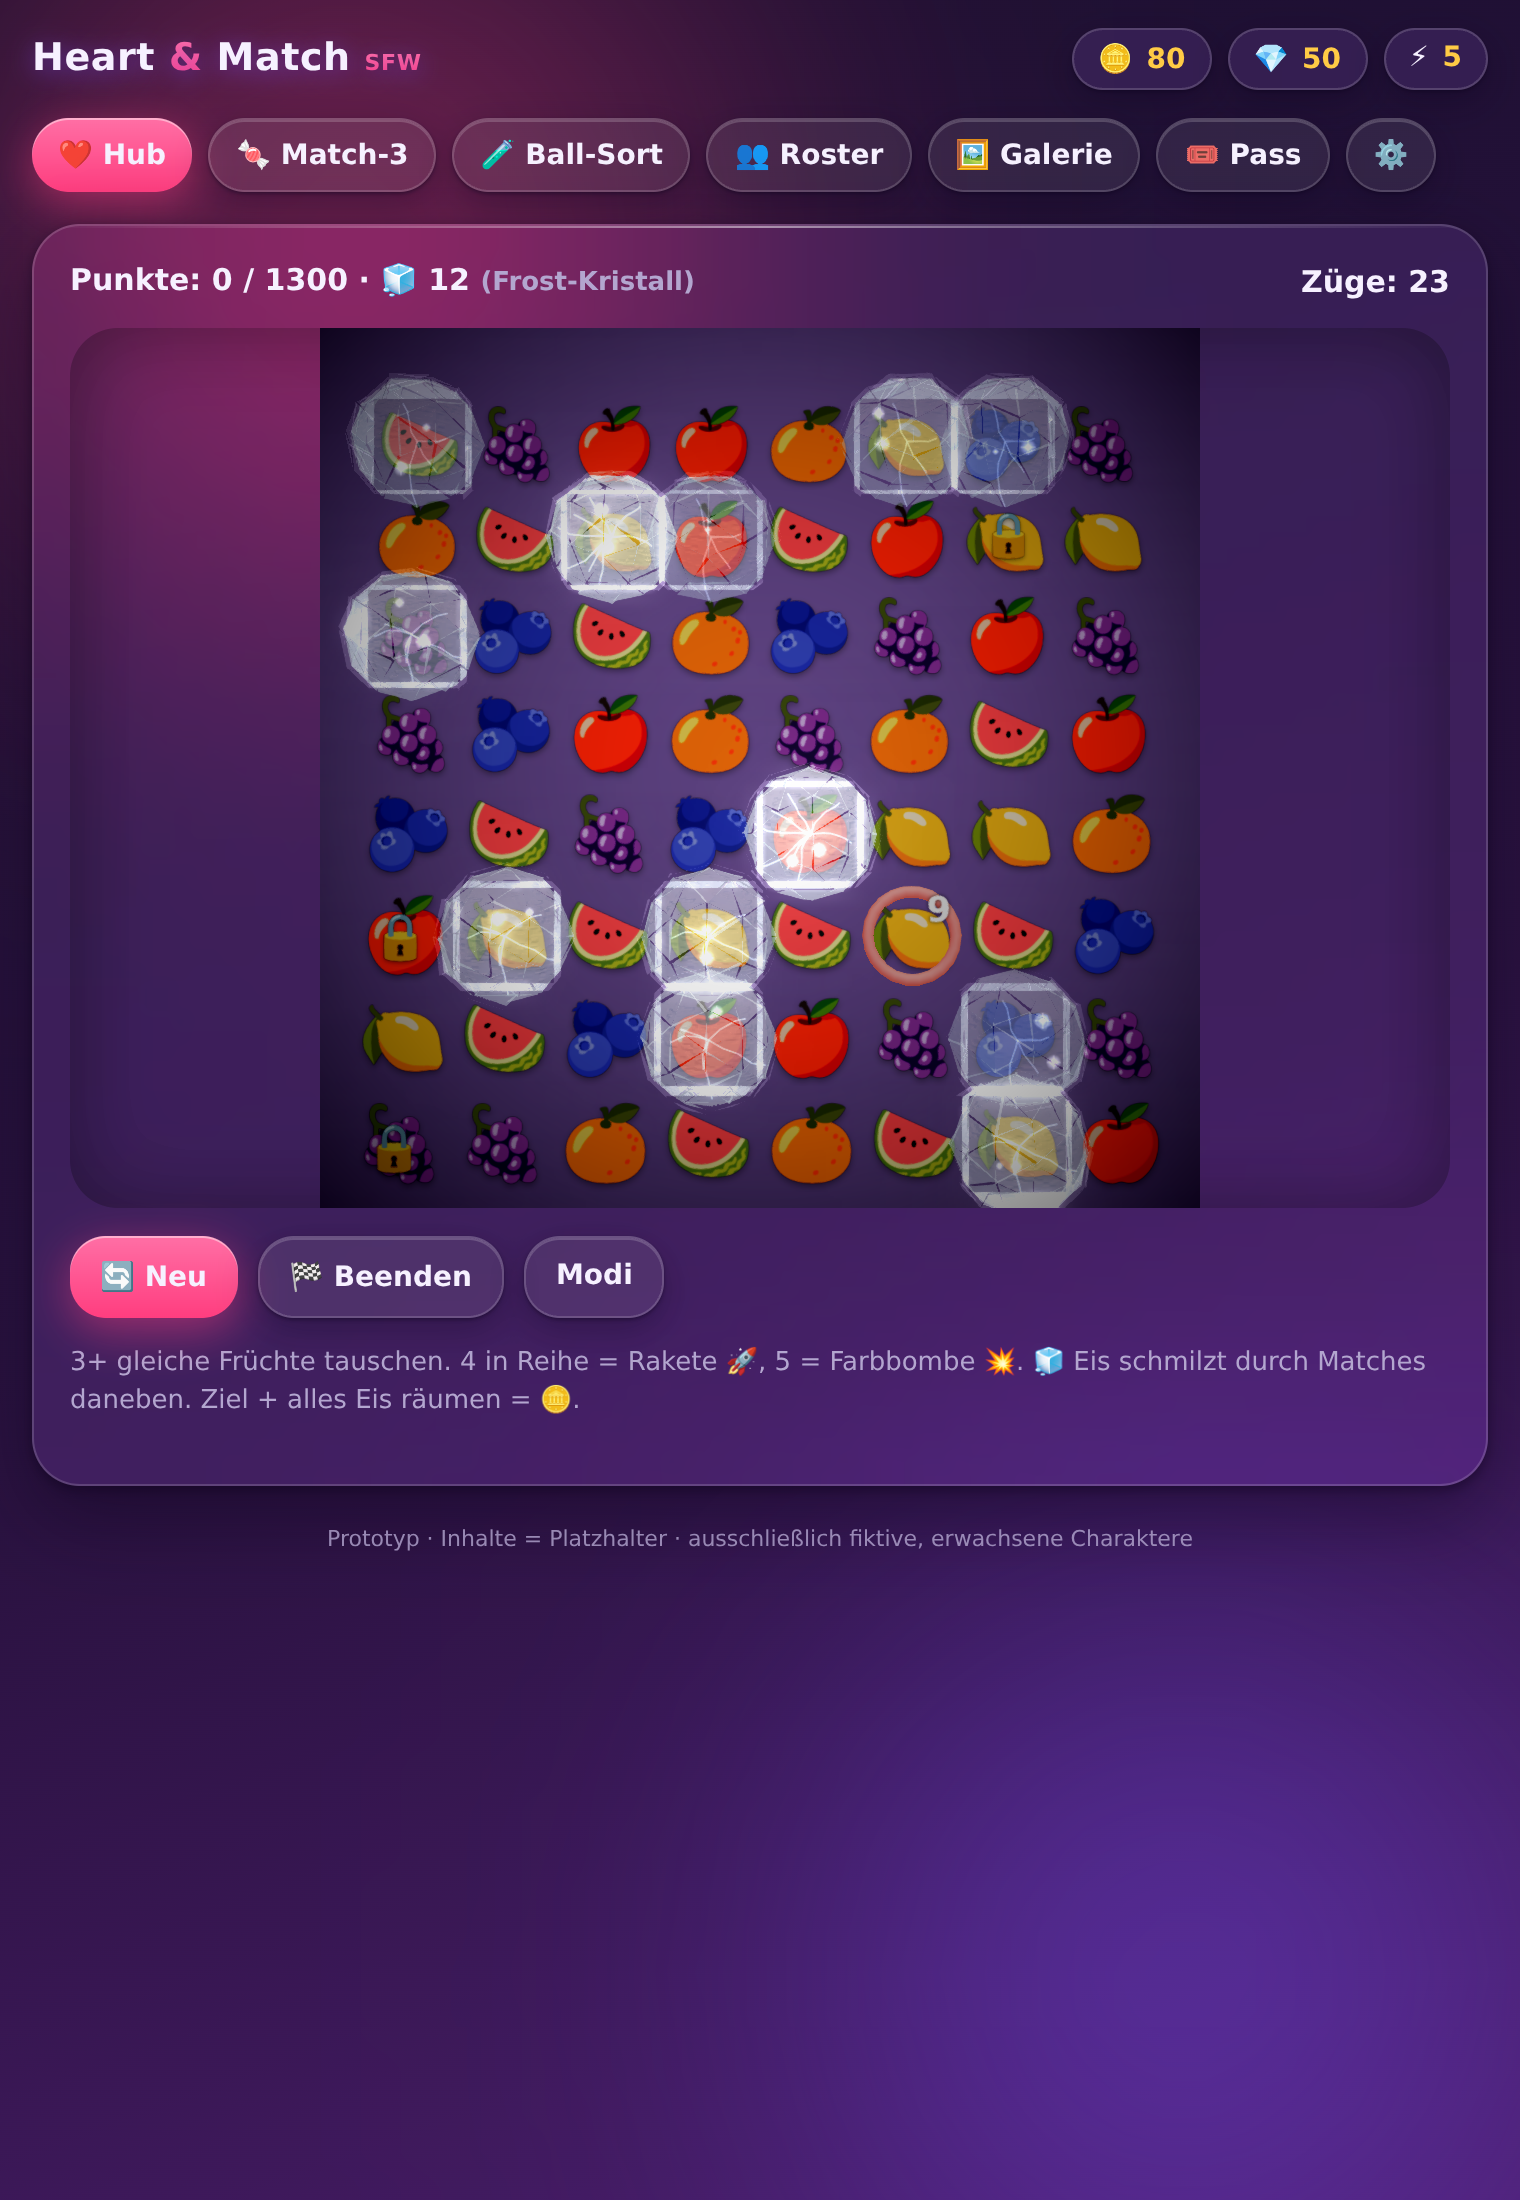
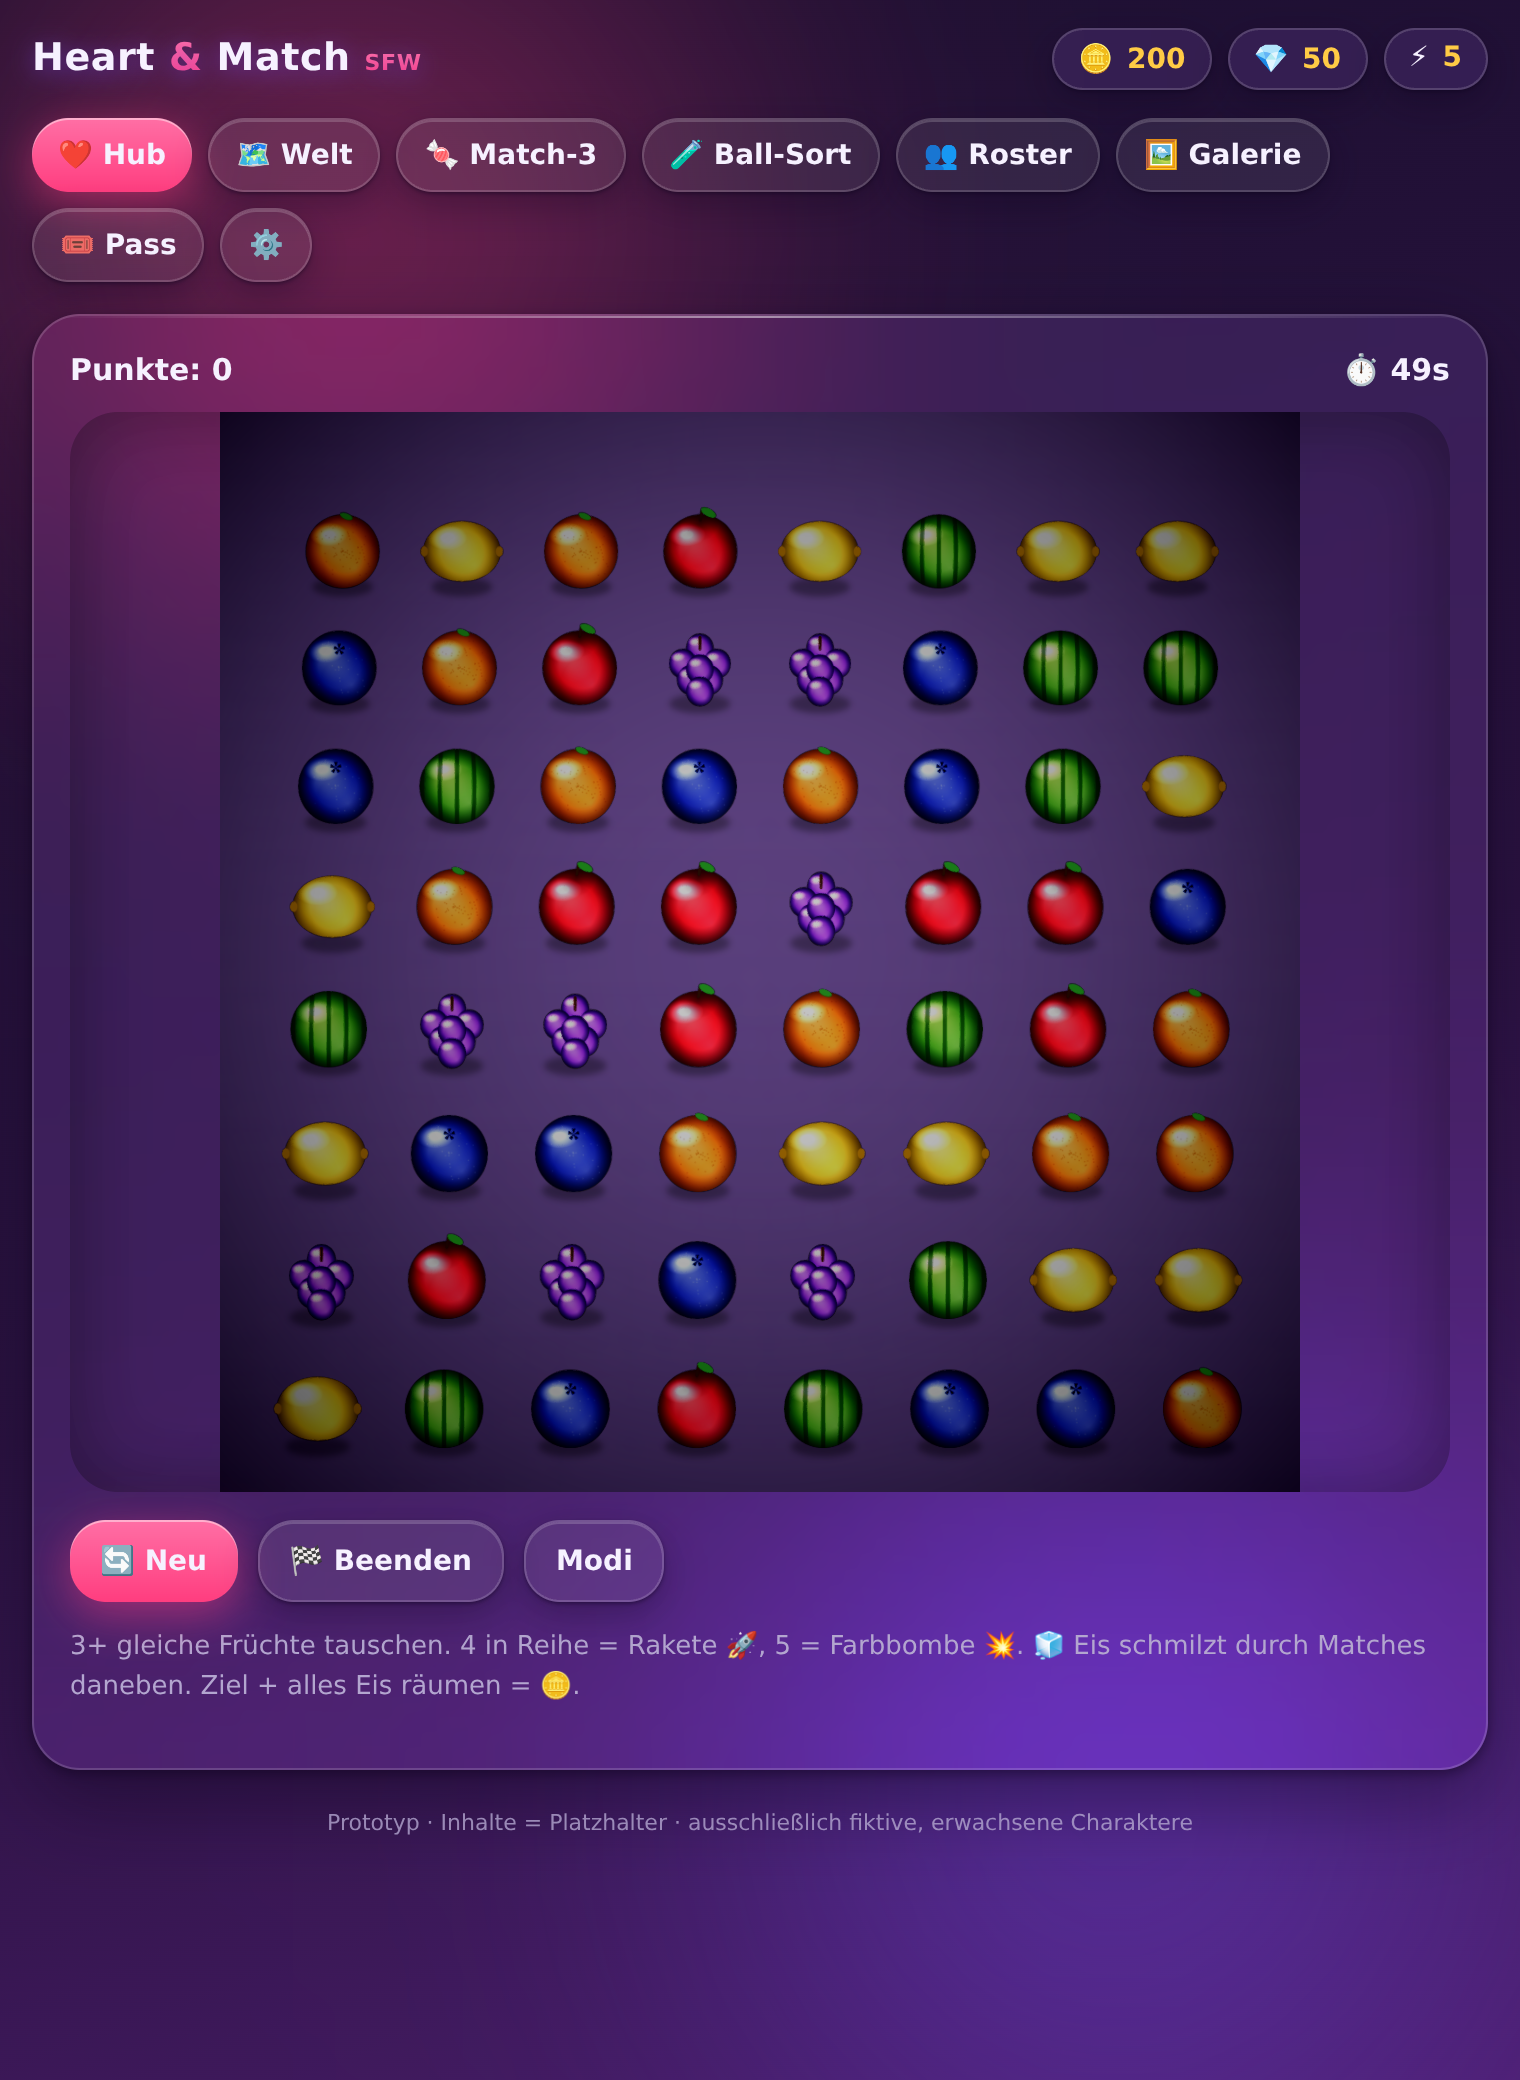
Replace emoji pieces with hand-drawn glossy candy-fruit sprites + bigger board
- Canvas-gezeichnete Spielsteine (orb()/drawFruit()): Gradient-Body, Rim-Darkening,
  Gegenlicht, Glanzlicht, Kontaktschatten — kohaerenter Candy/Match-3-Look statt OS-Emoji
- 6 Fruechte mit Details: Apfel (Stiel/Blatt/Delle), Orange (Poren/Blatt), Zitrone (Nubs),
  Wassermelone (Streifen), Heidelbeere (Krone/Frost), Trauben (Cluster)
- Brett vergroessert (540 / Ball-Sort 560x420), fuellt das Layout besser
- Hinweis: KI-Bildgenerierung in dieser Sandbox gesperrt (gradio=none) -> echte
  illustrierte Assets spaeter via lokale ComfyUI-Pipeline

diff --git a/web-prototype/games3d.js b/web-prototype/games3d.js
@@ -86,14 +86,14 @@ const MODES = {
 function startMode(id) { M3.mode = MODES[id] || MODES.story; M3.playLevel = null; showTab("m3"); }
 // Story-Level von der Welt-Karte aus starten (bestimmtes Feld).
 function startStory(level) { M3.mode = MODES.story; M3.playLevel = level; showTab("m3"); }
-// Echte Frucht-Designs als Emoji-Textur (klar erkennbar, offline, voll farbig).
+// Echte Spielsteine: per Canvas gezeichnete, glänzende "Candy"-Früchte (Gradient + Glanz + Rim + Schatten).
 const FRUIT = [
-  { name: "apfel",        emoji: "🍎", color: 0xff4356 },
-  { name: "orange",       emoji: "🍊", color: 0xff9f1a },
-  { name: "zitrone",      emoji: "🍋", color: 0xffe04d },
-  { name: "wassermelone", emoji: "🍉", color: 0x7bd64b },
-  { name: "heidelbeere",  emoji: "🫐", color: 0x5a78ff },
-  { name: "traube",       emoji: "🍇", color: 0xb15cff },
+  { name: "apfel",     c1: "#ff8a98", c2: "#ee2a4c", c3: "#9c0f29", color: 0xff4356 },
+  { name: "orange",    c1: "#ffd485", c2: "#ff9120", c3: "#c25c00", color: 0xff9f1a },
+  { name: "zitrone",   c1: "#fff7a6", c2: "#ffd21f", c3: "#bf9500", color: 0xffe04d },
+  { name: "melone",    c1: "#bdf174", c2: "#5fbf3a", c3: "#2c7a1a", color: 0x7bd64b },
+  { name: "blaubeere", c1: "#93a6ff", c2: "#3b56d6", c3: "#1b2880", color: 0x5a78ff },
+  { name: "traube",    c1: "#d7a6ff", c2: "#9b53e0", c3: "#571d92", color: 0xb15cff },
 ];
 
 const _texCache = {};
@@ -109,14 +109,71 @@ function emojiTexture(emoji) {
   _texCache[emoji] = tex; return tex;
 }
 
+// Glänzender Orb (Body-Gradient + Rim-Darkening + Gegenlicht + Glanzlicht), auf Ellipse geclippt.
+function orb(ctx, cx, cy, rx, ry, c1, c2, c3) {
+  const R = Math.max(rx, ry), box = () => ctx.fillRect(cx - rx - 6, cy - ry - 6, rx * 2 + 12, ry * 2 + 12);
+  ctx.save();
+  ctx.beginPath(); ctx.ellipse(cx, cy, rx, ry, 0, 0, 7); ctx.closePath(); ctx.clip();
+  const g = ctx.createRadialGradient(cx - rx * 0.34, cy - ry * 0.4, R * 0.08, cx, cy, R * 1.12);
+  g.addColorStop(0, c1); g.addColorStop(0.5, c2); g.addColorStop(1, c3); ctx.fillStyle = g; box();
+  const rim = ctx.createRadialGradient(cx, cy, R * 0.55, cx, cy, R);
+  rim.addColorStop(0, "rgba(0,0,0,0)"); rim.addColorStop(1, "rgba(0,0,0,0.4)"); ctx.fillStyle = rim; box();
+  ctx.globalCompositeOperation = "lighter";
+  const cl = ctx.createRadialGradient(cx + rx * 0.34, cy + ry * 0.46, 0, cx + rx * 0.34, cy + ry * 0.46, R * 0.85);
+  cl.addColorStop(0, "rgba(255,255,255,0.22)"); cl.addColorStop(1, "rgba(255,255,255,0)"); ctx.fillStyle = cl; box();
+  ctx.save(); ctx.translate(cx - rx * 0.38, cy - ry * 0.46); ctx.scale(1, 0.62);
+  const sp = ctx.createRadialGradient(0, 0, 0, 0, 0, R * 0.52);
+  sp.addColorStop(0, "rgba(255,255,255,0.95)"); sp.addColorStop(0.4, "rgba(255,255,255,0.35)"); sp.addColorStop(1, "rgba(255,255,255,0)");
+  ctx.fillStyle = sp; ctx.beginPath(); ctx.arc(0, 0, R * 0.52, 0, 7); ctx.fill(); ctx.restore();
+  ctx.restore();
+}
+const _fruitTex = {};
+function fruitTexture(type) { if (!_fruitTex[type]) _fruitTex[type] = drawFruit(type); return _fruitTex[type]; }
+function drawFruit(type) {
+  const s = 256, cv = document.createElement("canvas"); cv.width = cv.height = s; const ctx = cv.getContext("2d");
+  const cx = 128, cy = 132, r = 82, f = FRUIT[type];
+  // weicher Kontaktschatten
+  ctx.save(); ctx.filter = "blur(7px)"; ctx.fillStyle = "rgba(0,0,0,0.35)";
+  ctx.beginPath(); ctx.ellipse(cx, cy + r * 0.96, r * 0.82, r * 0.26, 0, 0, 7); ctx.fill(); ctx.restore();
+  const clip = cb => { ctx.save(); ctx.beginPath(); ctx.ellipse(cx, cy, r, r, 0, 0, 7); ctx.clip(); cb(); ctx.restore(); };
+  if (f.name === "zitrone") {
+    orb(ctx, cx, cy, r * 1.05, r * 0.82, f.c1, f.c2, f.c3);
+    ctx.fillStyle = f.c3; [-1, 1].forEach(d => { ctx.beginPath(); ctx.ellipse(cx + d * r * 1.02, cy, r * 0.1, r * 0.14, 0, 0, 7); ctx.fill(); });
+  } else if (f.name === "traube") {
+    [[0, -0.55], [-0.5, -0.12], [0.5, -0.12], [-0.27, 0.34], [0.27, 0.34], [0, 0.04], [0, 0.66]]
+      .forEach(p => orb(ctx, cx + p[0] * r * 0.92, cy + p[1] * r * 0.96, r * 0.37, r * 0.4, f.c1, f.c2, f.c3));
+    ctx.strokeStyle = "#6b4423"; ctx.lineWidth = 6; ctx.lineCap = "round";
+    ctx.beginPath(); ctx.moveTo(cx, cy - r * 0.82); ctx.lineTo(cx, cy - r * 0.5); ctx.stroke();
+  } else {
+    orb(ctx, cx, cy, r, r, f.c1, f.c2, f.c3);
+  }
+  if (f.name === "orange") {
+    clip(() => { ctx.fillStyle = "rgba(150,70,0,0.22)"; for (let i = 0; i < 70; i++) { const a = Math.random() * 7, rr = Math.random() * r * 0.92; ctx.beginPath(); ctx.arc(cx + Math.cos(a) * rr, cy + Math.sin(a) * rr, 1.6, 0, 7); ctx.fill(); } });
+    ctx.fillStyle = "#4caf50"; ctx.save(); ctx.translate(cx + 8, cy - r * 0.95); ctx.rotate(0.4); ctx.beginPath(); ctx.ellipse(0, 0, 15, 7, 0, 0, 7); ctx.fill(); ctx.restore();
+  }
+  if (f.name === "melone") {
+    clip(() => { ctx.strokeStyle = "rgba(18,72,12,0.55)"; ctx.lineWidth = 9; ctx.lineCap = "round"; for (let i = -2; i <= 2; i++) { const x = cx + i * r * 0.42; ctx.beginPath(); ctx.moveTo(x, cy - r); ctx.quadraticCurveTo(x + i * 7, cy, x, cy + r); ctx.stroke(); } });
+  }
+  if (f.name === "blaubeere") {
+    clip(() => { ctx.fillStyle = "rgba(255,255,255,0.16)"; for (let i = 0; i < 26; i++) { const a = Math.random() * 7, rr = Math.random() * r * 0.85; ctx.beginPath(); ctx.arc(cx + Math.cos(a) * rr, cy + Math.sin(a) * rr, 1.5, 0, 7); ctx.fill(); } });
+    ctx.fillStyle = "#101a5e"; ctx.save(); ctx.translate(cx, cy - r * 0.5); for (let i = 0; i < 5; i++) { ctx.rotate(Math.PI * 2 / 5); ctx.beginPath(); ctx.moveTo(0, 0); ctx.lineTo(4, -12); ctx.lineTo(-4, -12); ctx.closePath(); ctx.fill(); } ctx.restore();
+  }
+  if (f.name === "apfel") {
+    clip(() => { const d = ctx.createRadialGradient(cx, cy - r * 0.78, 0, cx, cy - r * 0.78, r * 0.5); d.addColorStop(0, "rgba(70,0,12,0.5)"); d.addColorStop(1, "rgba(70,0,12,0)"); ctx.fillStyle = d; ctx.beginPath(); ctx.arc(cx, cy - r * 0.78, r * 0.5, 0, 7); ctx.fill(); });
+    ctx.strokeStyle = "#6b4423"; ctx.lineWidth = 7; ctx.lineCap = "round"; ctx.beginPath(); ctx.moveTo(cx, cy - r * 0.85); ctx.lineTo(cx + 4, cy - r * 1.12); ctx.stroke();
+    ctx.fillStyle = "#46b14e"; ctx.save(); ctx.translate(cx + 18, cy - r * 1.05); ctx.rotate(0.5); ctx.beginPath(); ctx.ellipse(0, 0, 19, 9, 0, 0, 7); ctx.fill(); ctx.restore();
+  }
+  const t = new T.CanvasTexture(cv); t.encoding = T.sRGBEncoding; return t;
+}
+
 function worldPos(x, y) {
   return new T.Vector3((x - (M3.W - 1) / 2) * M3.cs, ((M3.H - 1) / 2 - y) * M3.cs, 0);
 }
 
 function makeFruit(type) {
   const f = FRUIT[type], g = new T.Group();
-  const spr = new T.Sprite(new T.SpriteMaterial({ map: emojiTexture(f.emoji), transparent: true }));
-  spr.scale.set(1.12, 1.12, 1.12); g.add(spr);
+  const spr = new T.Sprite(new T.SpriteMaterial({ map: fruitTexture(type), transparent: true }));
+  spr.scale.set(1.18, 1.18, 1.18); g.add(spr);
   g.userData = { type, body: spr, mat: spr.material, ts: 1, baseScale: 1, spin: 0, frozen: false };
   g.scale.setScalar(0.01); // poppt rein
   return g;
@@ -143,7 +200,7 @@ function startMatch3() {
   M3.target = mode.endless ? Infinity : (mode.target + (mode.id === "story" ? lvl * 120 : 0));
   M3.timed = mode.timed; M3.timeLeft = mode.timed; M3.lastT = performance.now();
   const mount = $("m3mount"); M3.mount = mount;
-  const size = Math.min(440, (mount.clientWidth || 380));
+  const size = Math.min(540, (mount.clientWidth || 400));
   M3.scene = new T.Scene();
   M3.cam = new T.PerspectiveCamera(46, 1, 0.1, 100);
   M3.cam.position.set(0, -0.8, 12.2); M3.cam.lookAt(0, 0.25, 0);
@@ -480,7 +537,7 @@ function hasValidMove() {
 }
 function setFruitType(cell, type) {
   cell.c = type; const b = cell.mesh.userData.body;
-  b.material.map = emojiTexture(FRUIT[type].emoji); b.material.needsUpdate = true;
+  b.material.map = fruitTexture(type); b.material.needsUpdate = true;
 }
 function reshuffle() {
   const cells = [];
@@ -696,7 +753,7 @@ function startBallSort() {
   BS.colors = Math.min(BALL_COLORS.length, 4 + Math.floor((lvl - 1) / 2));
   BS.cap = 4; BS.sel = null; BS.moves = 0; BS.history = []; BS.busy = false;
   const mount = $("bsmount");
-  const w = Math.min(460, (mount.clientWidth || 400)), h = 380;
+  const w = Math.min(560, (mount.clientWidth || 420)), h = 420;
   BS.scene = new T.Scene();
   BS.cam = new T.PerspectiveCamera(45, w / h, 0.1, 100);
   BS.cam.position.set(0, 0.4, 9.5); BS.cam.lookAt(0, -0.2, 0);
